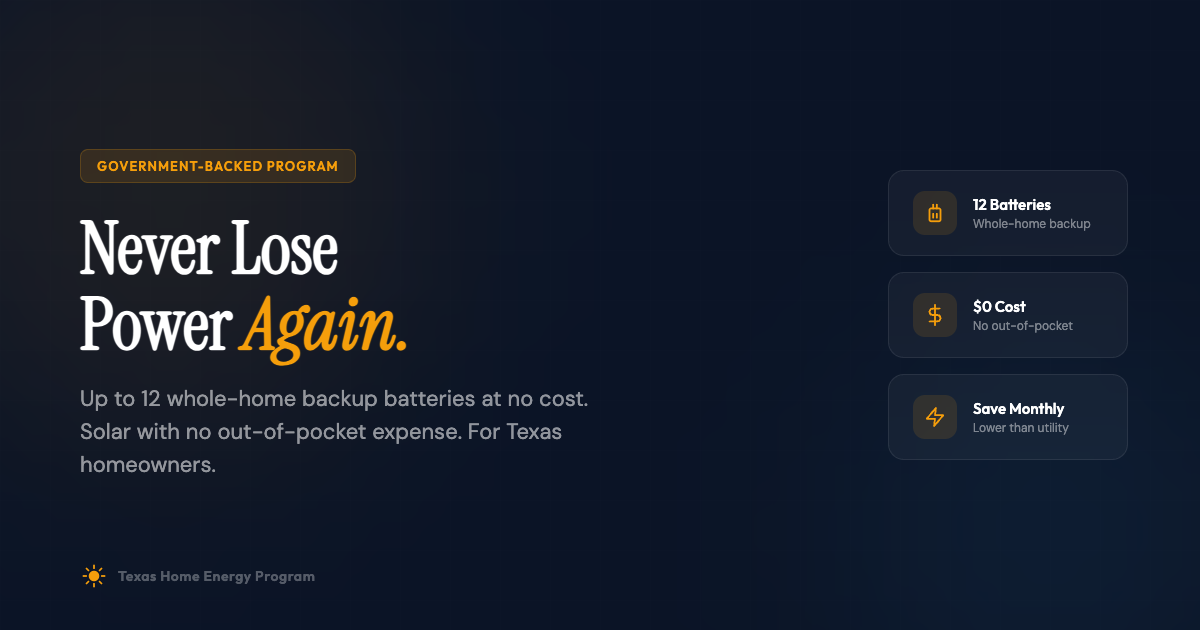
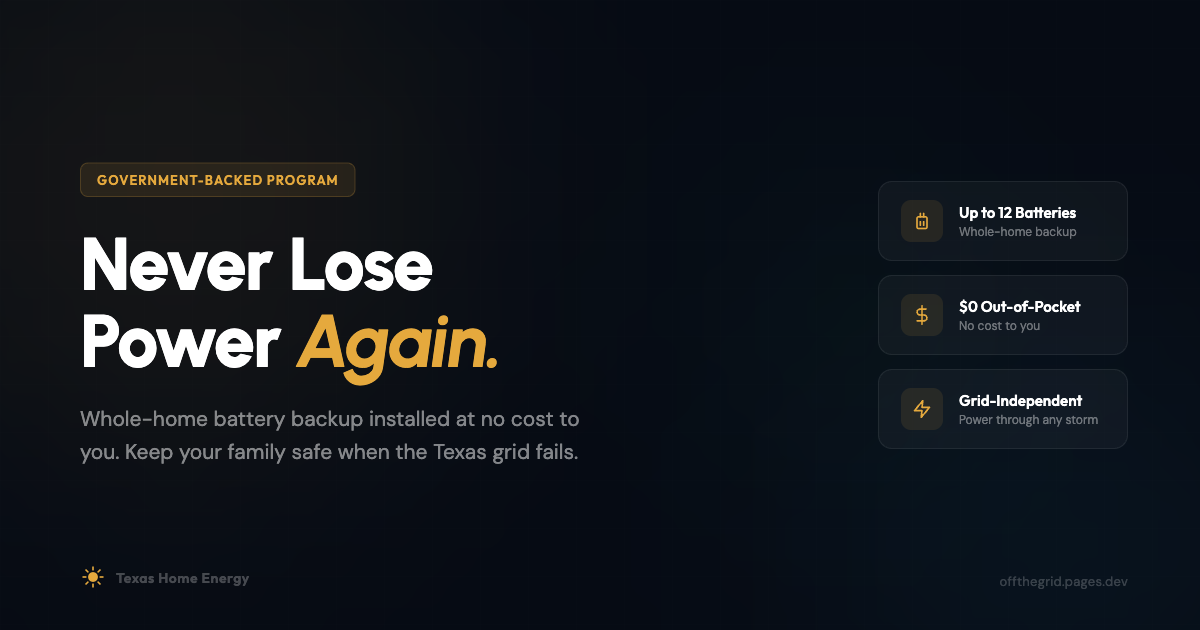
Update OG image to match current branding and simplify energy flow copy
Regenerated og-template.html and og-image.png with current brand fonts
(Urbanist/Outfit/DM Sans), colors (#060B14 navy, #E5A93D amber), and
messaging. Replaced the 4-card benefits grid under the battery diagram
with a single summary paragraph for cleaner reading on desktop and mobile.

diff --git a/og-template.html b/og-template.html
@@ -3,12 +3,12 @@
 <head>
 <meta charset="utf-8">
 <style>
-  @import url('https://fonts.googleapis.com/css2?family=Instrument+Serif:ital@0;1&family=Outfit:wght@400;600;700&family=DM+Sans:wght@400;500&display=swap');
+  @import url('https://fonts.googleapis.com/css2?family=Urbanist:ital,wght@0,300;0,400;0,500;0,600;0,700;0,800;0,900;1,400;1,700&family=Outfit:wght@400;500;600;700;800&family=DM+Sans:wght@400;500;600&display=swap');
   * { margin: 0; padding: 0; box-sizing: border-box; }
   body {
     width: 1200px;
     height: 630px;
-    background: #0B1426;
+    background: #060B14;
     display: flex;
     overflow: hidden;
     position: relative;
@@ -21,28 +21,39 @@
     background-image:
       linear-gradient(rgba(255,255,255,0.15) 1px, transparent 1px),
       linear-gradient(90deg, rgba(255,255,255,0.15) 1px, transparent 1px);
-    background-size: 50px 50px;
+    background-size: 48px 48px;
   }
-  /* Glow */
+  /* Glows */
   .glow-1 {
     position: absolute;
-    top: -60px;
-    left: -80px;
-    width: 500px;
-    height: 500px;
-    background: rgba(245, 158, 11, 0.08);
+    top: -80px;
+    left: -100px;
+    width: 550px;
+    height: 550px;
+    background: rgba(229, 169, 61, 0.07);
     border-radius: 50%;
-    filter: blur(100px);
+    filter: blur(120px);
   }
   .glow-2 {
     position: absolute;
-    bottom: -100px;
-    right: -50px;
-    width: 400px;
-    height: 400px;
-    background: rgba(56, 189, 248, 0.06);
+    bottom: -120px;
+    right: -60px;
+    width: 420px;
+    height: 420px;
+    background: rgba(56, 189, 248, 0.05);
+    border-radius: 50%;
+    filter: blur(120px);
+  }
+  .glow-3 {
+    position: absolute;
+    top: 50%;
+    right: 200px;
+    width: 300px;
+    height: 300px;
+    background: rgba(16, 185, 129, 0.04);
     border-radius: 50%;
     filter: blur(100px);
+    transform: translateY(-50%);
   }
   .content {
     position: relative;
@@ -50,15 +61,15 @@
     display: flex;
     flex-direction: column;
     justify-content: center;
-    padding: 72px 80px;
+    padding: 64px 80px;
     flex: 1;
   }
   .badge {
     display: inline-flex;
     align-items: center;
     gap: 8px;
-    background: rgba(245, 158, 11, 0.12);
-    border: 1px solid rgba(245, 158, 11, 0.2);
+    background: rgba(229, 169, 61, 0.1);
+    border: 1px solid rgba(229, 169, 61, 0.2);
     border-radius: 8px;
     padding: 8px 16px;
     margin-bottom: 28px;
@@ -70,26 +81,29 @@
     font-size: 13px;
     letter-spacing: 0.08em;
     text-transform: uppercase;
-    color: #F59E0B;
+    color: #E5A93D;
   }
   h1 {
-    font-family: 'Instrument Serif', Georgia, serif;
-    font-size: 72px;
+    font-family: 'Urbanist', sans-serif;
+    font-weight: 800;
+    font-size: 74px;
     color: white;
     line-height: 1.05;
-    margin-bottom: 20px;
-    max-width: 700px;
+    margin-bottom: 22px;
+    max-width: 680px;
+    letter-spacing: -0.02em;
   }
   h1 em {
-    color: #F59E0B;
+    color: #E5A93D;
     font-style: italic;
+    font-weight: 700;
   }
   p {
     font-family: 'DM Sans', sans-serif;
-    font-size: 22px;
-    color: rgba(255,255,255,0.55);
-    line-height: 1.5;
-    max-width: 560px;
+    font-size: 21px;
+    color: rgba(255,255,255,0.5);
+    line-height: 1.55;
+    max-width: 540px;
   }
   /* Right side feature pills */
   .features {
@@ -99,32 +113,31 @@
     transform: translateY(-50%);
     display: flex;
     flex-direction: column;
-    gap: 16px;
+    gap: 14px;
   }
   .feature {
     display: flex;
     align-items: center;
     gap: 16px;
-    background: rgba(255,255,255,0.04);
-    border: 1px solid rgba(255,255,255,0.08);
-    border-radius: 16px;
-    padding: 20px 24px;
-    width: 240px;
-    backdrop-filter: blur(8px);
+    background: rgba(255,255,255,0.035);
+    border: 1px solid rgba(255,255,255,0.07);
+    border-radius: 14px;
+    padding: 18px 22px;
+    width: 250px;
   }
   .feature-icon {
-    width: 44px;
-    height: 44px;
-    border-radius: 12px;
-    background: rgba(245, 158, 11, 0.12);
+    width: 42px;
+    height: 42px;
+    border-radius: 10px;
+    background: rgba(229, 169, 61, 0.1);
     display: flex;
     align-items: center;
     justify-content: center;
     flex-shrink: 0;
   }
   .feature-icon svg {
-    width: 22px;
-    height: 22px;
+    width: 20px;
+    height: 20px;
   }
   .feature-label {
     font-family: 'Outfit', sans-serif;
@@ -135,11 +148,11 @@
   .feature-desc {
     font-family: 'DM Sans', sans-serif;
     font-size: 12px;
-    color: rgba(255,255,255,0.45);
+    color: rgba(255,255,255,0.4);
     margin-top: 2px;
   }
-  /* Sun icon in bottom-left */
-  .sun-mark {
+  /* Bottom brand mark */
+  .brand-mark {
     position: absolute;
     bottom: 40px;
     left: 80px;
@@ -147,16 +160,26 @@
     align-items: center;
     gap: 10px;
   }
-  .sun-mark svg {
-    width: 28px;
-    height: 28px;
+  .brand-mark svg {
+    width: 26px;
+    height: 26px;
   }
-  .sun-mark span {
+  .brand-mark span {
     font-family: 'Outfit', sans-serif;
     font-weight: 600;
     font-size: 14px;
-    color: rgba(255,255,255,0.3);
+    color: rgba(255,255,255,0.25);
     letter-spacing: 0.04em;
+  }
+  /* URL pill bottom-right */
+  .url-mark {
+    position: absolute;
+    bottom: 40px;
+    right: 72px;
+    font-family: 'DM Sans', sans-serif;
+    font-size: 13px;
+    color: rgba(255,255,255,0.2);
+    letter-spacing: 0.02em;
   }
 </style>
 </head>
@@ -164,58 +187,61 @@
   <div class="grid-bg"></div>
   <div class="glow-1"></div>
   <div class="glow-2"></div>
+  <div class="glow-3"></div>
 
   <div class="content">
     <div class="badge">
       <span>Government-Backed Program</span>
     </div>
     <h1>Never Lose<br>Power <em>Again.</em></h1>
-    <p>Up to 12 whole-home backup batteries at no cost. Solar with no out-of-pocket expense. For Texas homeowners.</p>
+    <p>Whole-home battery backup installed at no cost to you. Keep your family safe when the Texas grid fails.</p>
   </div>
 
   <div class="features">
     <div class="feature">
       <div class="feature-icon">
-        <svg viewBox="0 0 24 24" fill="none" stroke="#F59E0B" stroke-width="2" stroke-linecap="round" stroke-linejoin="round"><rect x="6" y="7" width="12" height="14" rx="2"/><line x1="10" y1="3" x2="10" y2="7"/><line x1="14" y1="3" x2="14" y2="7"/><line x1="10" y1="17" x2="10" y2="13"/><line x1="14" y1="17" x2="14" y2="13"/></svg>
+        <svg viewBox="0 0 24 24" fill="none" stroke="#E5A93D" stroke-width="2" stroke-linecap="round" stroke-linejoin="round"><rect x="6" y="7" width="12" height="14" rx="2"/><line x1="10" y1="3" x2="10" y2="7"/><line x1="14" y1="3" x2="14" y2="7"/><line x1="10" y1="17" x2="10" y2="13"/><line x1="14" y1="17" x2="14" y2="13"/></svg>
       </div>
       <div>
-        <div class="feature-label">12 Batteries</div>
+        <div class="feature-label">Up to 12 Batteries</div>
         <div class="feature-desc">Whole-home backup</div>
       </div>
     </div>
     <div class="feature">
       <div class="feature-icon">
-        <svg viewBox="0 0 24 24" fill="none" stroke="#F59E0B" stroke-width="2" stroke-linecap="round" stroke-linejoin="round"><line x1="12" y1="1" x2="12" y2="23"/><path d="M17 5H9.5a3.5 3.5 0 0 0 0 7h5a3.5 3.5 0 0 1 0 7H6"/></svg>
+        <svg viewBox="0 0 24 24" fill="none" stroke="#E5A93D" stroke-width="2" stroke-linecap="round" stroke-linejoin="round"><line x1="12" y1="1" x2="12" y2="23"/><path d="M17 5H9.5a3.5 3.5 0 0 0 0 7h5a3.5 3.5 0 0 1 0 7H6"/></svg>
       </div>
       <div>
-        <div class="feature-label">$0 Cost</div>
-        <div class="feature-desc">No out-of-pocket</div>
+        <div class="feature-label">$0 Out-of-Pocket</div>
+        <div class="feature-desc">No cost to you</div>
       </div>
     </div>
     <div class="feature">
       <div class="feature-icon">
-        <svg viewBox="0 0 24 24" fill="none" stroke="#F59E0B" stroke-width="2" stroke-linecap="round" stroke-linejoin="round"><polygon points="13 2 3 14 12 14 11 22 21 10 12 10 13 2"/></svg>
+        <svg viewBox="0 0 24 24" fill="none" stroke="#E5A93D" stroke-width="2" stroke-linecap="round" stroke-linejoin="round"><polygon points="13 2 3 14 12 14 11 22 21 10 12 10 13 2"/></svg>
       </div>
       <div>
-        <div class="feature-label">Save Monthly</div>
-        <div class="feature-desc">Lower than utility</div>
+        <div class="feature-label">Grid-Independent</div>
+        <div class="feature-desc">Power through any storm</div>
       </div>
     </div>
   </div>
 
-  <div class="sun-mark">
+  <div class="brand-mark">
     <svg viewBox="0 0 32 32" fill="none">
-      <circle cx="16" cy="16" r="6" fill="#F59E0B"/>
-      <line x1="16" y1="4" x2="16" y2="7" stroke="#F59E0B" stroke-width="2" stroke-linecap="round"/>
-      <line x1="16" y1="25" x2="16" y2="28" stroke="#F59E0B" stroke-width="2" stroke-linecap="round"/>
-      <line x1="4" y1="16" x2="7" y2="16" stroke="#F59E0B" stroke-width="2" stroke-linecap="round"/>
-      <line x1="25" y1="16" x2="28" y2="16" stroke="#F59E0B" stroke-width="2" stroke-linecap="round"/>
-      <line x1="7.5" y1="7.5" x2="9.6" y2="9.6" stroke="#F59E0B" stroke-width="2" stroke-linecap="round"/>
-      <line x1="22.4" y1="22.4" x2="24.5" y2="24.5" stroke="#F59E0B" stroke-width="2" stroke-linecap="round"/>
-      <line x1="24.5" y1="7.5" x2="22.4" y2="9.6" stroke="#F59E0B" stroke-width="2" stroke-linecap="round"/>
-      <line x1="9.6" y1="22.4" x2="7.5" y2="24.5" stroke="#F59E0B" stroke-width="2" stroke-linecap="round"/>
+      <circle cx="16" cy="16" r="6" fill="#E5A93D"/>
+      <line x1="16" y1="4" x2="16" y2="7" stroke="#E5A93D" stroke-width="2" stroke-linecap="round"/>
+      <line x1="16" y1="25" x2="16" y2="28" stroke="#E5A93D" stroke-width="2" stroke-linecap="round"/>
+      <line x1="4" y1="16" x2="7" y2="16" stroke="#E5A93D" stroke-width="2" stroke-linecap="round"/>
+      <line x1="25" y1="16" x2="28" y2="16" stroke="#E5A93D" stroke-width="2" stroke-linecap="round"/>
+      <line x1="7.5" y1="7.5" x2="9.6" y2="9.6" stroke="#E5A93D" stroke-width="2" stroke-linecap="round"/>
+      <line x1="22.4" y1="22.4" x2="24.5" y2="24.5" stroke="#E5A93D" stroke-width="2" stroke-linecap="round"/>
+      <line x1="24.5" y1="7.5" x2="22.4" y2="9.6" stroke="#E5A93D" stroke-width="2" stroke-linecap="round"/>
+      <line x1="9.6" y1="22.4" x2="7.5" y2="24.5" stroke="#E5A93D" stroke-width="2" stroke-linecap="round"/>
     </svg>
-    <span>Texas Home Energy Program</span>
+    <span>Texas Home Energy</span>
   </div>
+
+  <div class="url-mark">offthegrid.pages.dev</div>
 </body>
 </html>

diff --git a/src/components/EnergyFlow.tsx b/src/components/EnergyFlow.tsx
@@ -186,42 +186,15 @@ export default function EnergyFlow() {
           </div>
         )}
 
-        {/* Benefits row — aligned to the 4 steps above */}
-        <div className="grid grid-cols-1 sm:grid-cols-4 gap-6 max-w-5xl mx-auto mb-16">
-          {[
-            {
-              title: "Grid delivers power",
-              desc: "Your home draws power from the grid like normal — but now it has somewhere to store it.",
-            },
-            {
-              title: "Generate energy",
-              desc: "Clean energy from the sun reduces your grid dependence and feeds your battery system.",
-            },
-            {
-              title: "Batteries store backup power",
-              desc: "Your battery system stores energy for when you need it most — outages, peak demand, or emergencies.",
-            },
-            {
-              title: "Home stays powered",
-              desc: "When the grid goes down, your batteries kick in automatically. Your family won't even notice.",
-            },
-          ].map((step, i) => (
-            <motion.div
-              key={step.title}
-              initial={{ opacity: 0, y: 20 }}
-              animate={isInView ? { opacity: 1, y: 0 } : {}}
-              transition={{ delay: 0.8 + i * 0.15, duration: 0.6 }}
-              className="text-center"
-            >
-              <h3 className="font-heading font-semibold text-white text-base mb-2">
-                {step.title}
-              </h3>
-              <p className="font-body text-sm text-muted-foreground leading-relaxed">
-                {step.desc}
-              </p>
-            </motion.div>
-          ))}
-        </div>
+        {/* Summary */}
+        <motion.p
+          initial={{ opacity: 0, y: 20 }}
+          animate={isInView ? { opacity: 1, y: 0 } : {}}
+          transition={{ delay: 0.8, duration: 0.6 }}
+          className="font-body text-base sm:text-lg text-muted-foreground leading-relaxed text-center max-w-3xl mx-auto mb-16"
+        >
+          Your home draws power from the grid like normal — but now solar panels generate clean energy that feeds directly into your battery system. Those batteries store power for when you need it most: outages, peak demand, or emergencies. When the grid goes down, they kick in automatically — your family won't even notice.
+        </motion.p>
 
         {/* CTA */}
         <motion.div
